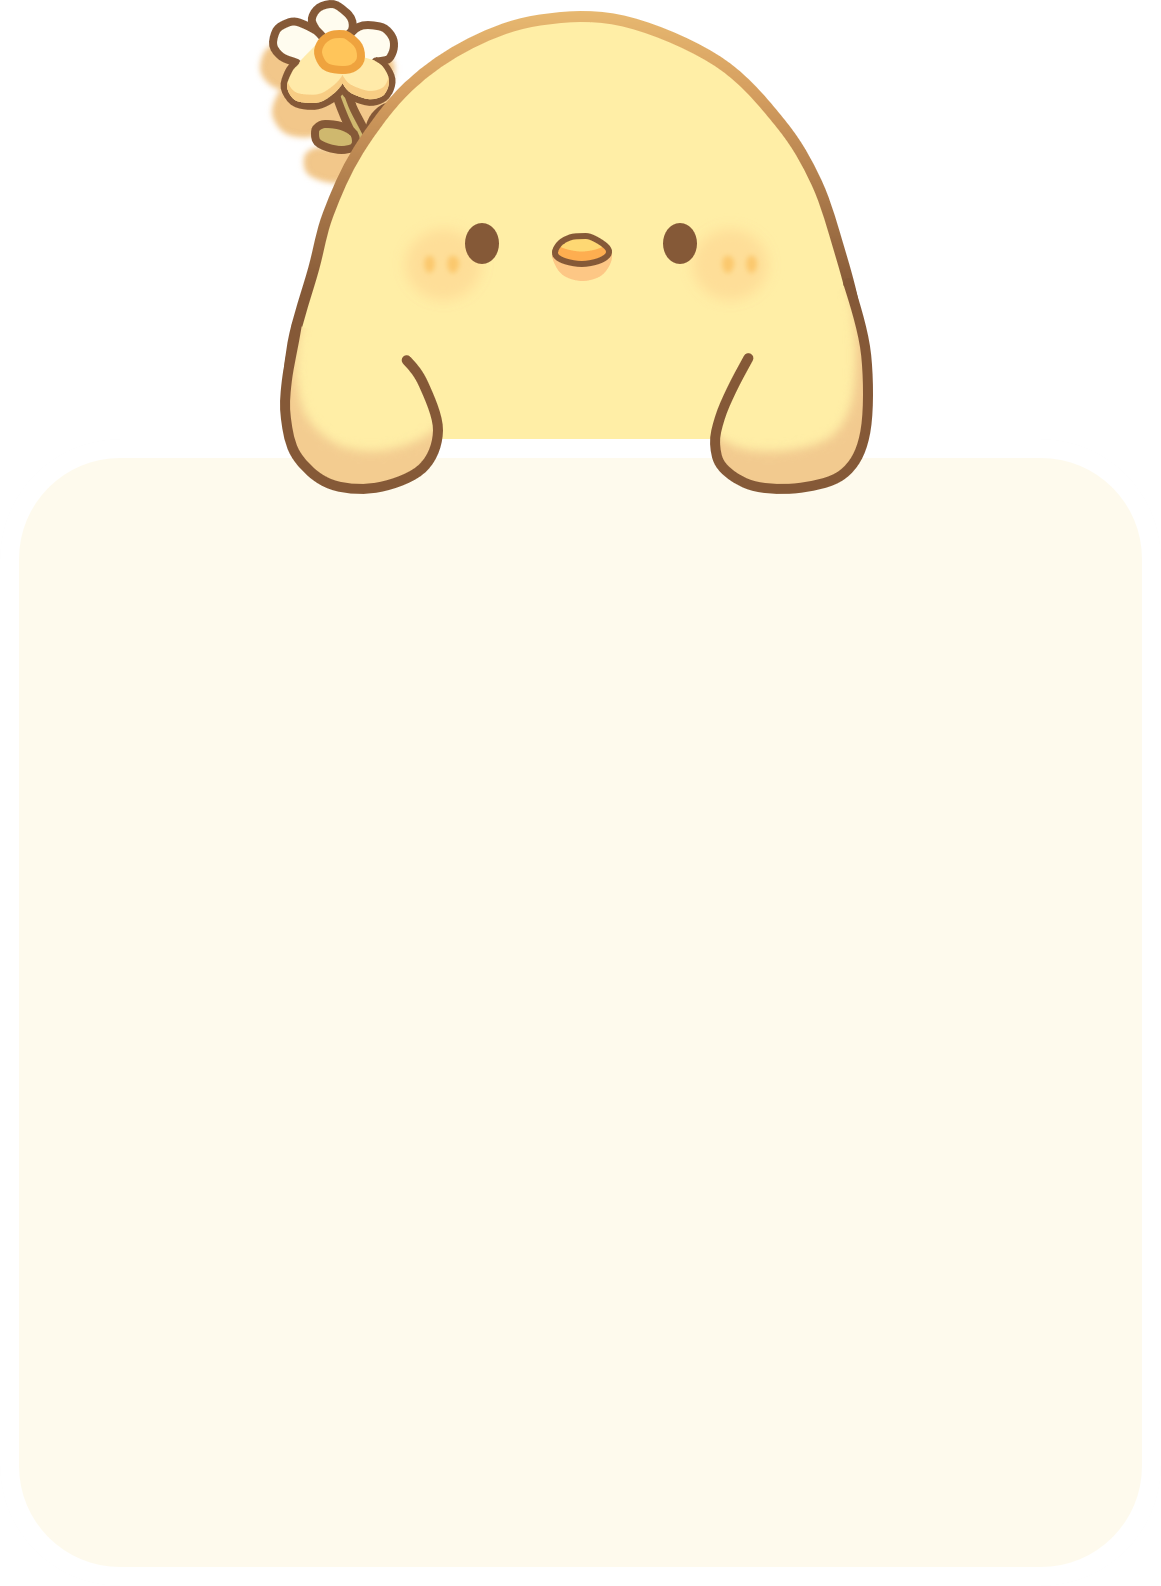
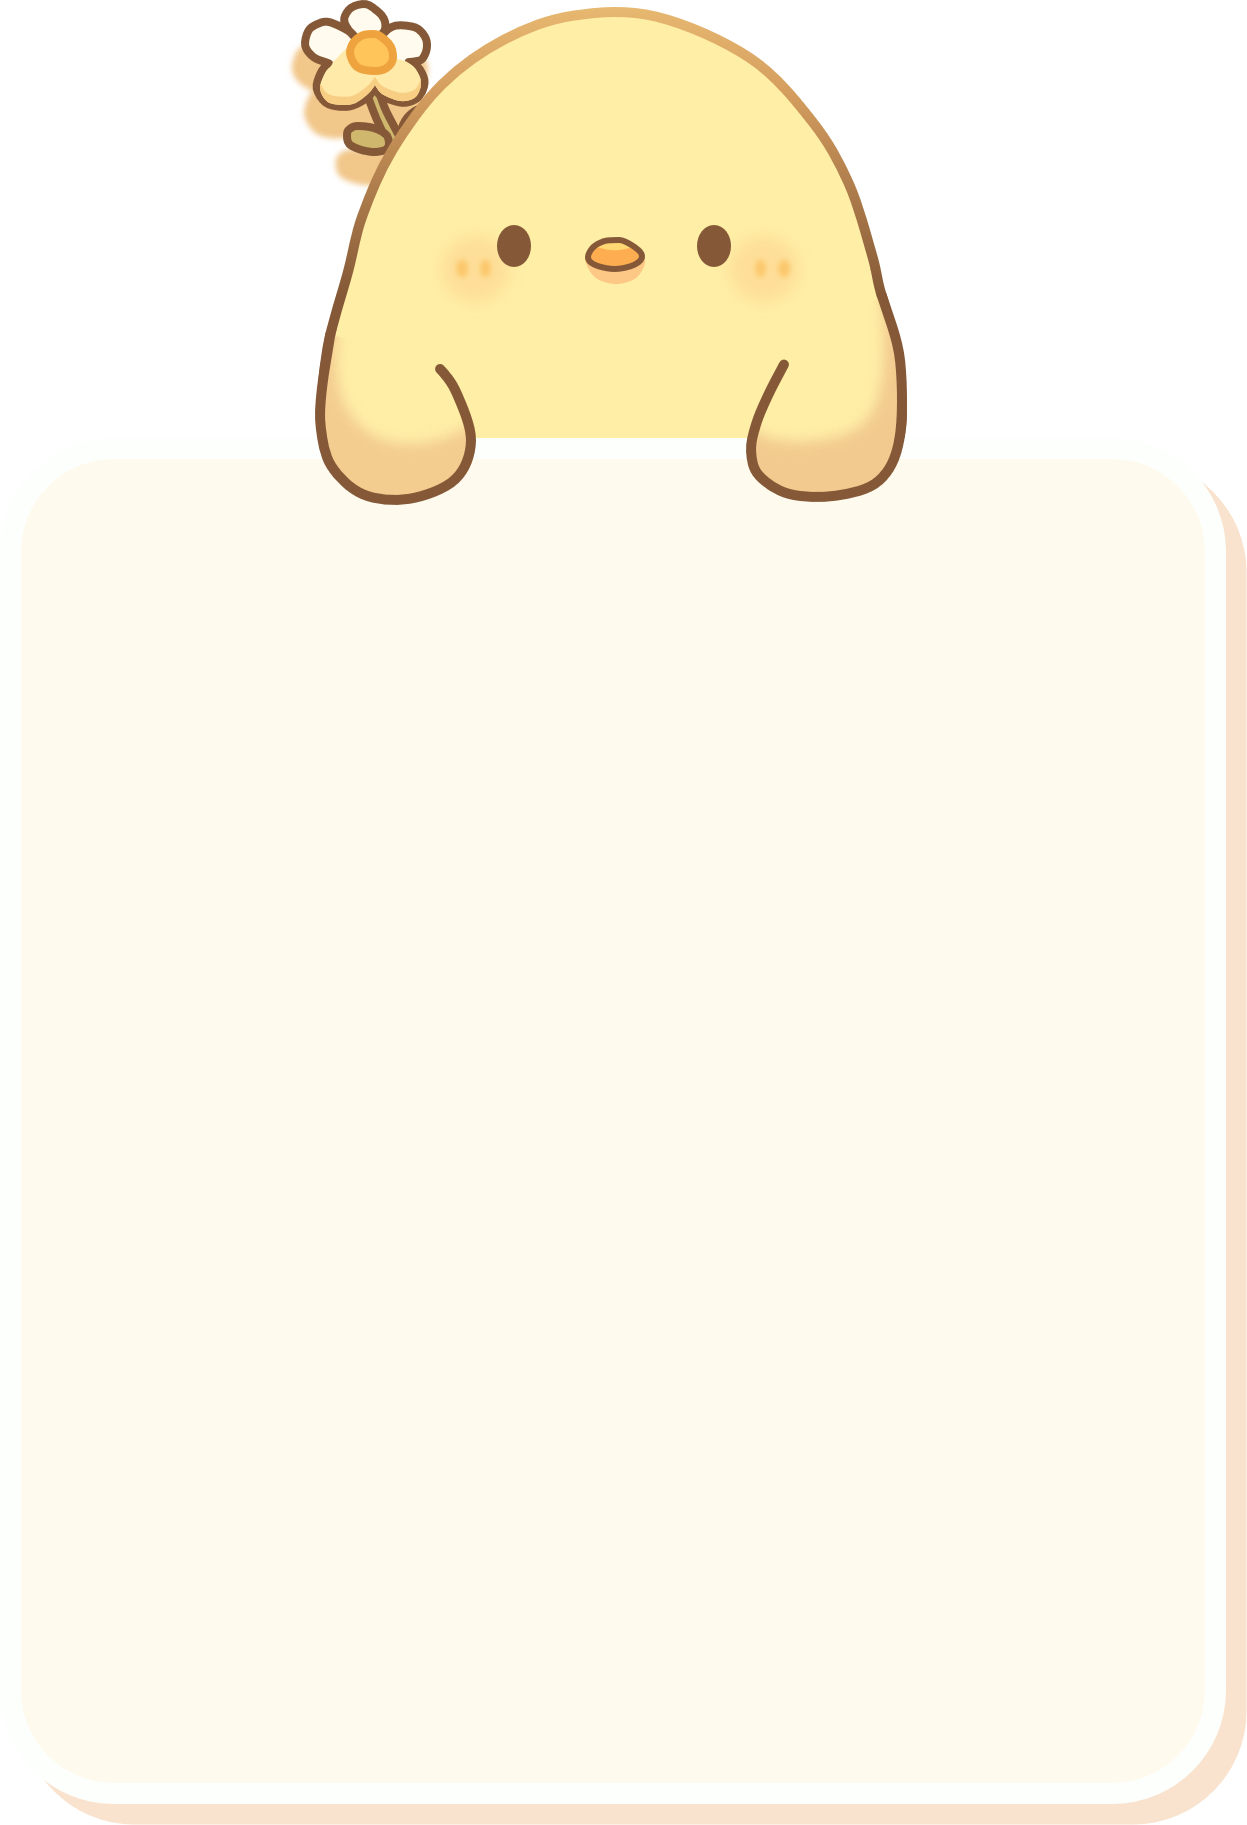
도담이 사진 변경

diff --git a/frontend/src/pages/user/SignUp/SignUpPage.js b/frontend/src/pages/user/SignUp/SignUpPage.js
@@ -29,7 +29,7 @@ const SignUpPage = () => {
     return (
         <div className='relative flex justify-center items-center mt-[120px] mb-[25px] 
         w-[560px] h-[680px] rounded-[50px] shadow-[6px_4px_10px_#a5996e]'>
-            <img src='/images/dodam_signup.png' className='w-[440px] h-[600px]'/>
+            <img src='/images/dodam_signup.png' className='w-[440px] h-[640px]'/>
             <div className='absolute mt-40 w-[360px] z-10'>
                 <h1 className='text-basic-size'>회원가입</h1>
                 <SignUpForm onSubmit={submitSignUp} errorMessage={errorMessage}/>
